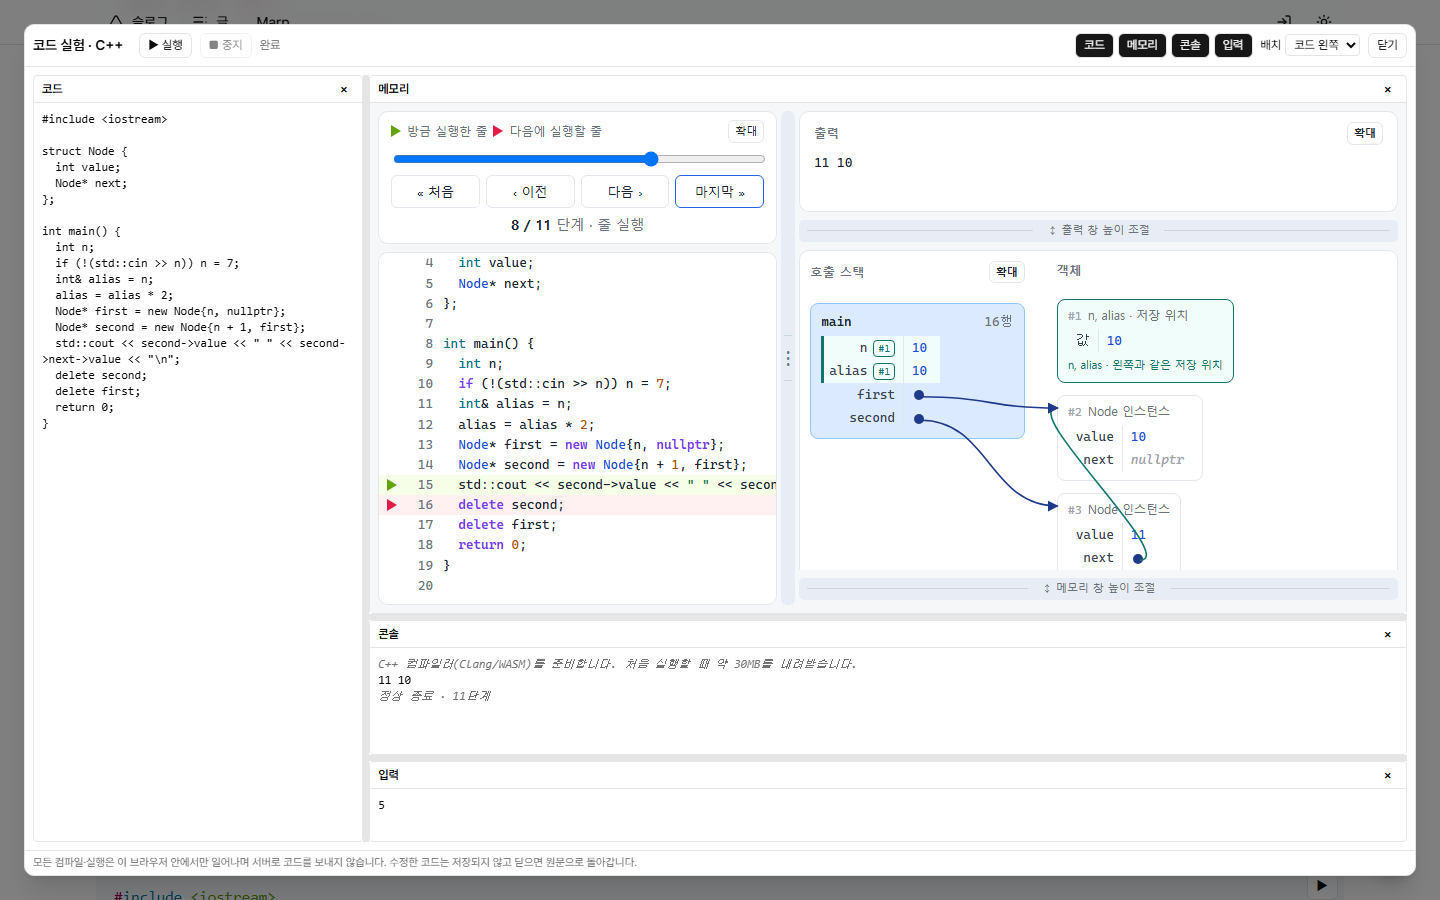
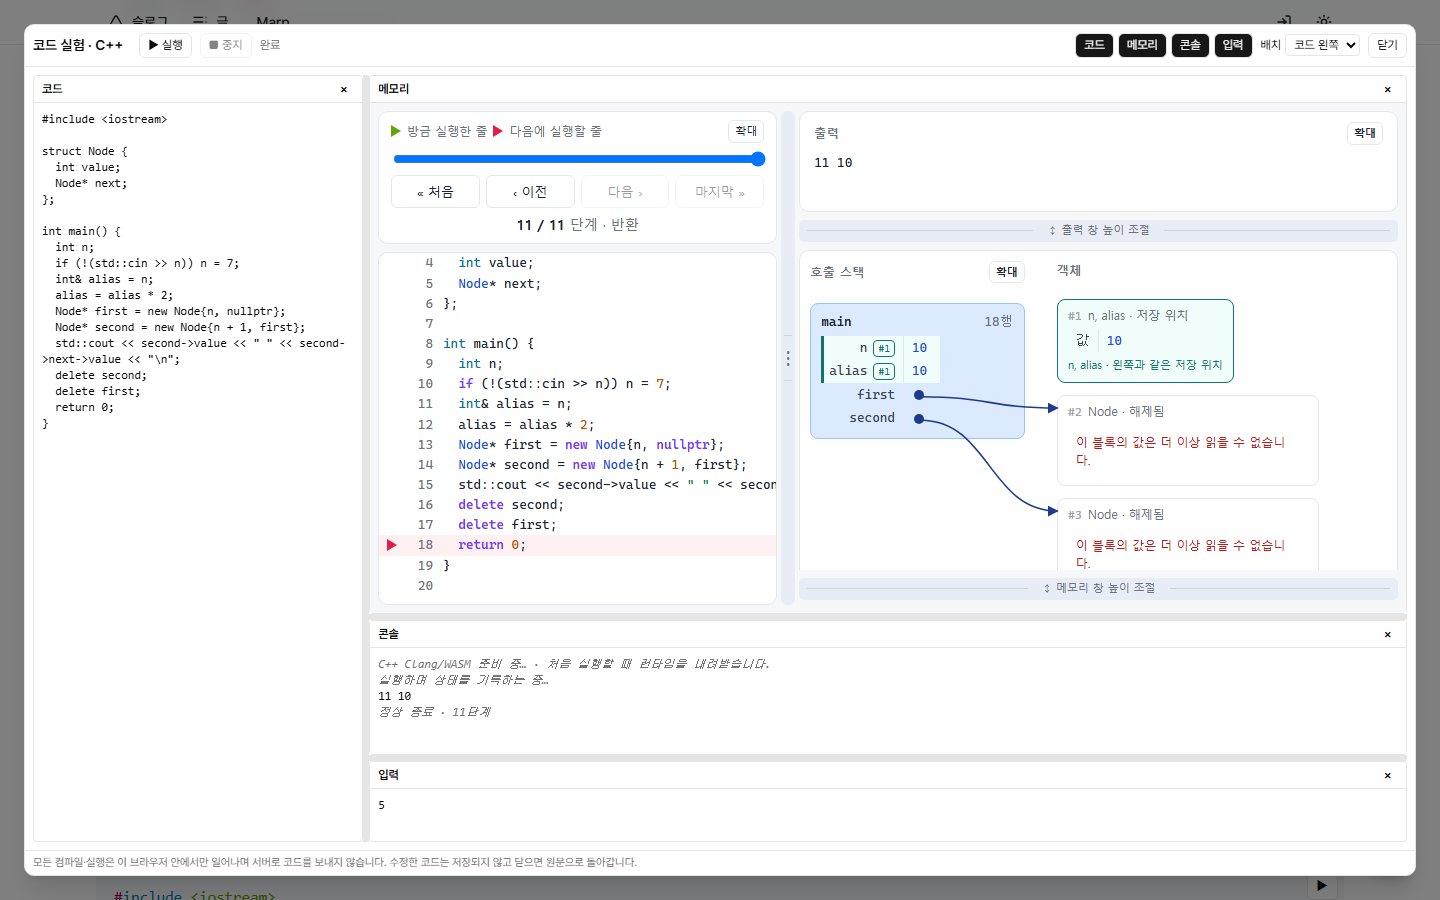
docs: 코드 실험 다섯 언어 운영 검증 증거와 티켓 기록

diff --git a/.scratch/inline-code-playground/issues/10-five-language-memory.md b/.scratch/inline-code-playground/issues/10-five-language-memory.md
@@ -4,9 +4,13 @@
 
 **Blocked by:** 06, 07
 
-**Status:** ready-for-agent
+**Status:** resolved
 
-- [ ] Java(CheerpJ 공식 CDN + ECJ + ASM)·Python(Pyodide)·JavaScript(`js memory`)·C(JSCPP)·C++(browsercc)를 브라우저 안에서 컴파일·실행·추적한다. 서버 실행 없음.
-- [ ] 선입력, 콘솔, 독립 메모리 패널, 수정 재실행, 중지, 재열기 초기화, 런타임 재사용 시 상태 누출 없음.
-- [ ] 기존 `js run`·HTML·React 렌더링/DOM/VDOM 보존, 입력 없는 C scanf의 `Memory overflow`를 입력 부족으로 안내.
-- [ ] 운영 테스트 글 14927에서 다섯 언어의 출력·시각화·선입력·재실행을 검증한다.
+- [x] Java(CheerpJ 공식 CDN + ECJ + ASM)·Python(Pyodide)·JavaScript(`js memory`)·C(JSCPP)·C++(browsercc)를 브라우저 안에서 컴파일·실행·추적한다. 서버 실행 없음.
+- [x] 선입력, 콘솔, 독립 메모리 패널, 수정 재실행, 중지, 재열기 초기화, 런타임 재사용 시 상태 누출 없음.
+- [x] 기존 `js run`·HTML·React 렌더링/DOM/VDOM 보존, 입력 없는 C scanf의 `Memory overflow`를 입력 부족으로 안내.
+- [x] 운영 테스트 글 14927에서 다섯 언어의 출력·시각화·선입력·재실행을 검증한다.
+
+## Comments
+
+- 2026-11-01 Claude: main 5496335 Vercel 배포 성공. 운영 테스트 글 14927(공개·목록 미노출, 다섯 언어 예제로 갱신, 다른 글 변경 없음)을 별도 headless Chromium으로 검증했다. JS 메모리 `민수 10 2`(첫 실행 2.3초), Python `민수 10 2`(2.5초), Java `5 10 [5, 6] runs=1`(첫 실행 23.3초, CheerpJ CDN), C 연결 리스트 `10 20 30`·malloc 3/free 3, C 선입력 없을 때 "입력 부족" 후 4 → `n=4 last=9`, C++ `11 10`·해제 표시. 모든 언어에서 메모리 패널 기대 항목 확인, 코드가 담긴 네트워크 요청 0건. 증거 `../evidence/production-5langs.json`, `prod-{js,python,java,cStruct,cInput,cpp}.png`. 로컬: code-lab e2e 20건(dev·운영 빌드), 전체 렌더링 회귀 63건, tsc·eslint 통과. 독립 리뷰 지적(같은 출처 폴백, 팝업 간 런타임 상태, 쿠키 문구·CSP, 메시지 검증, 캐시)은 반영했다.

diff --git a/.scratch/inline-code-playground/issues/07-java-cpp.md b/.scratch/inline-code-playground/issues/07-java-cpp.md
@@ -15,3 +15,4 @@
 
 - 2026-11-01 Claude: C++는 wasm-clang으로 브라우저 컴파일·선입력 실행 VERIFIED(`../runtime-proofs.md`)지만 아직 연결하지 않았다. 결정 필요: 60MB(gzip 19MB) 자산을 저장소에 넣을지, 빌드 때 받을지, 별도 정적 호스트에 둘지. `std::sort` 링크 실패(__lttf2)도 남아 있다. Java는 stdin 없음·예외 트랩·라이선스 불명으로 제외, CheerpJ는 자체 호스팅 유료로 제외. 두 언어 모두 허위 재생 버튼 없음(`java run`/`cpp run`은 안내 문구). 메모리 패널은 C에만 노출.
 - 2026-11-01 Claude (사용자 지시 반영): C++는 사용자가 운영하는 Java-memory-visualizer(`codex/cloudflare-sharing` 5762765)의 browsercc 0.1.1 경로(Clang 20 + LLD → WASM32/WASI, Clang AST 계측)를 그대로 재사용해 `cpp run`/`c++ run`/`cxx run`으로 연결했다. 자산은 npm `browsercc@0.1.1`에서 빌드 때 gzip(약 29MB)으로 만들어 정적 배포하며 원본 운영 자산과 내용이 같다. 실제 브라우저 e2e로 소스 수정→컴파일→선입력(`cin`)→참조·new/delete 해제 메모리→컴파일 오류 줄 번호를 검증했다. 원본의 AST 단계 진단 줄 번호 밀림 버그는 빌드 패치로 보정했다. Java는 이번 범위에서 제외 유지(원본 Java는 CheerpJ 공식 CDN 사용 구조라 자체 호스팅 유료 문제와는 별개이며, 후속 검토 대상).
+- 2026-11-01 Claude (최종 지시): Java도 Java-memory-visualizer의 runtime.js(CheerpJ 4.3 공식 CDN + ECJ 3.33.0 + ASM 9.7.1 + tracer.jar)로 `java run`에 연결했다. 이전 제외 사유(CheerpJ 자체 호스팅 유료)는 공식 CDN 사용과 무관해 철회한다. 상세는 10번 티켓.
